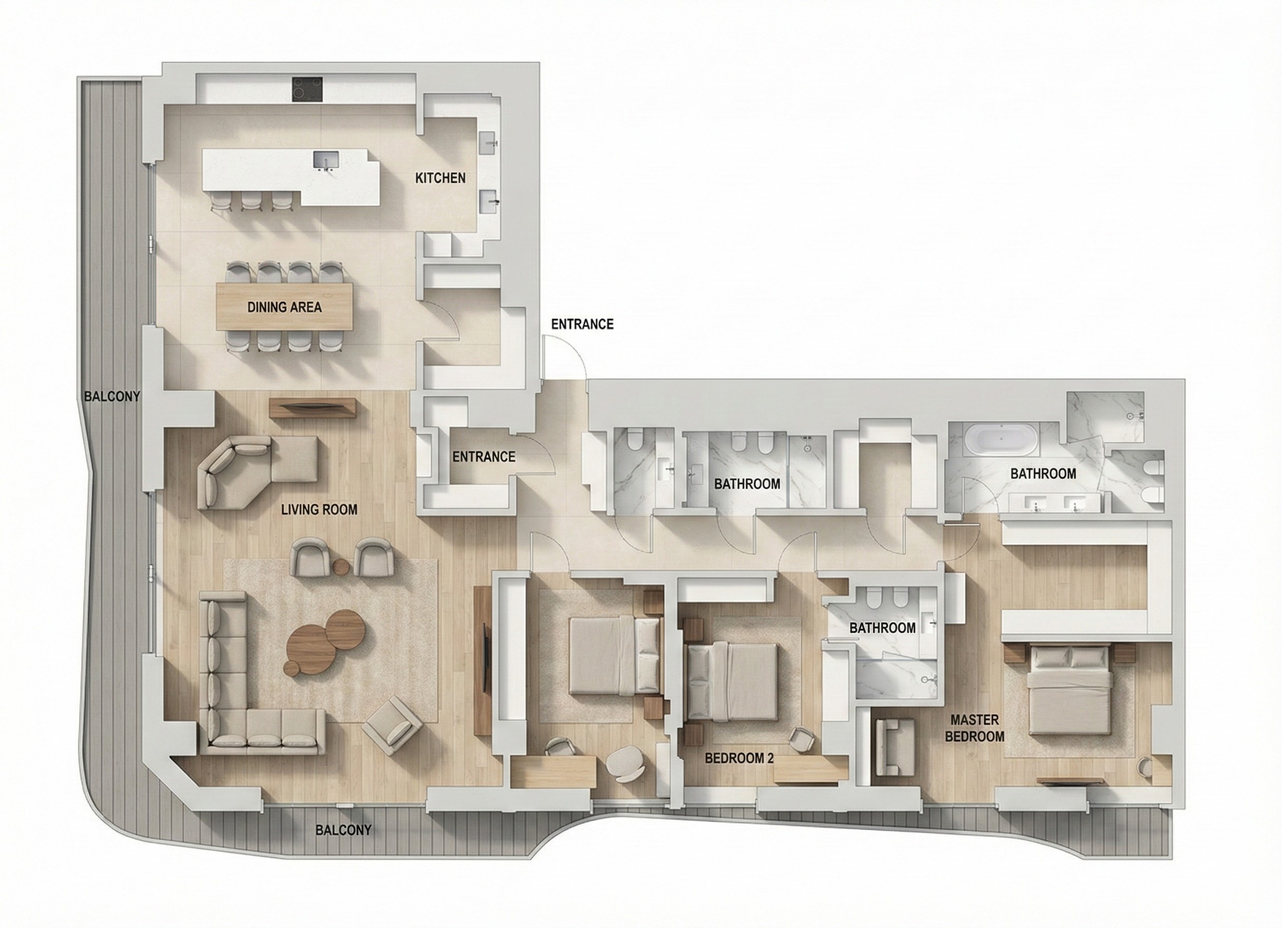
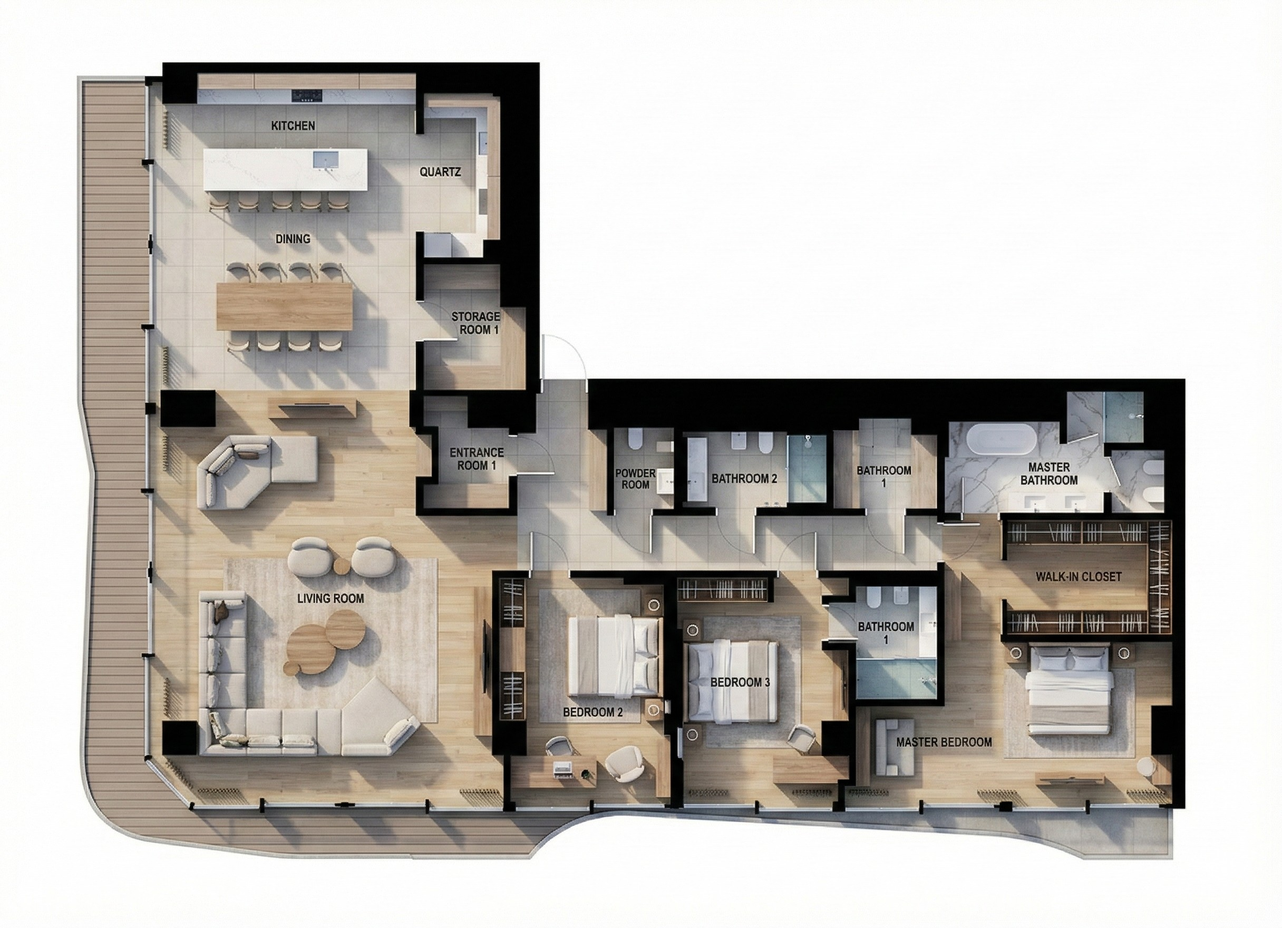
docs: Enforce mandatory labeling and text replacement in all prompts

diff --git a/README.zh-CN.md b/README.zh-CN.md
@@ -55,6 +55,15 @@
 
 ![自然语言输出](./assets/cases/2.1-cad-to-topview/output-natural-cn.jpg)
 
+**房间标注：**
+- 必须标注平面图中的**每一个**空间（例如："客厅"、"次卧室1"、"储藏间"）。
+- 如果原始CAD图纸包含文字或标注，**必须完全移除**，并用新的、清晰的、专业的标签替换。
+- 不要将新标签覆盖在旧标签上。
+
+**输出要求：**
+- **视图**：正交俯视图。
+- **风格**：照片级真实感，自然光照。
+
 **提示词：**
 ```
 将提供的CAD平面图转换为照片级真实的彩色俯视图，用于客户演示。添加真实家具、清晰的房间标签，以及适合每个空间的材质地面。使用柔和的自然光照,保持建筑准确性。

diff --git a/README.md b/README.md
@@ -183,20 +183,6 @@ Use the JSON structure from the main specification below.
     },
     "project_type": "residential_apartment",
     "input_analysis": {
-        "total_rooms": 15,
-        "total_furniture_count": 28,
-        "total_fixtures": 7,
-        "architectural_features": 2,
-        "empty_spaces": 2
-    },
-    "output_requirements": {
-        "view_type": "orthographic_top_down",
-        "style": "photorealistic",
-        "aspect_ratio": "match_input",
-        "lighting": "natural_daylight_soft_shadows",
-        "label_language": "english"
-    },
-    "architectural_features": [
         {
             "feature_id": "walk_in_closet",
             "location": "master_bedroom",

diff --git a/prompts/json-generator-prompt.md b/prompts/json-generator-prompt.md
@@ -92,7 +92,12 @@ Generate JSON with the following structure:
     "style": "photorealistic",
     "aspect_ratio": "match_input",
     "lighting": "natural_daylight_soft_shadows",
-    "label_language": "english" // or "chinese"
+    "label_language": "english", // or "chinese"
+    "labeling_policy": {
+      "coverage": "ALL_defined_spaces_MUST_be_labeled",
+      "existing_text": "REMOVE_original_CAD_text_and_REPLACE_with_new_labels",
+      "style": "clear_sans_serif_text_centered_in_room"
+    }
   },
   
   "architectural_features": [

diff --git a/prompts/json-generator-prompt-cn.md b/prompts/json-generator-prompt-cn.md
@@ -90,7 +90,12 @@
     "style": "photorealistic",
     "aspect_ratio": "match_input",
     "lighting": "natural_daylight_soft_shadows",
-    "label_language": "chinese"
+    "label_language": "chinese",
+    "labeling_policy": {
+      "coverage": "ALL_defined_spaces_MUST_be_labeled",
+      "existing_text": "REMOVE_original_CAD_text_and_REPLACE_with_new_labels",
+      "style": "clear_sans_serif_text_centered_in_room"
+    }
   },
   
   "architectural_features": [
